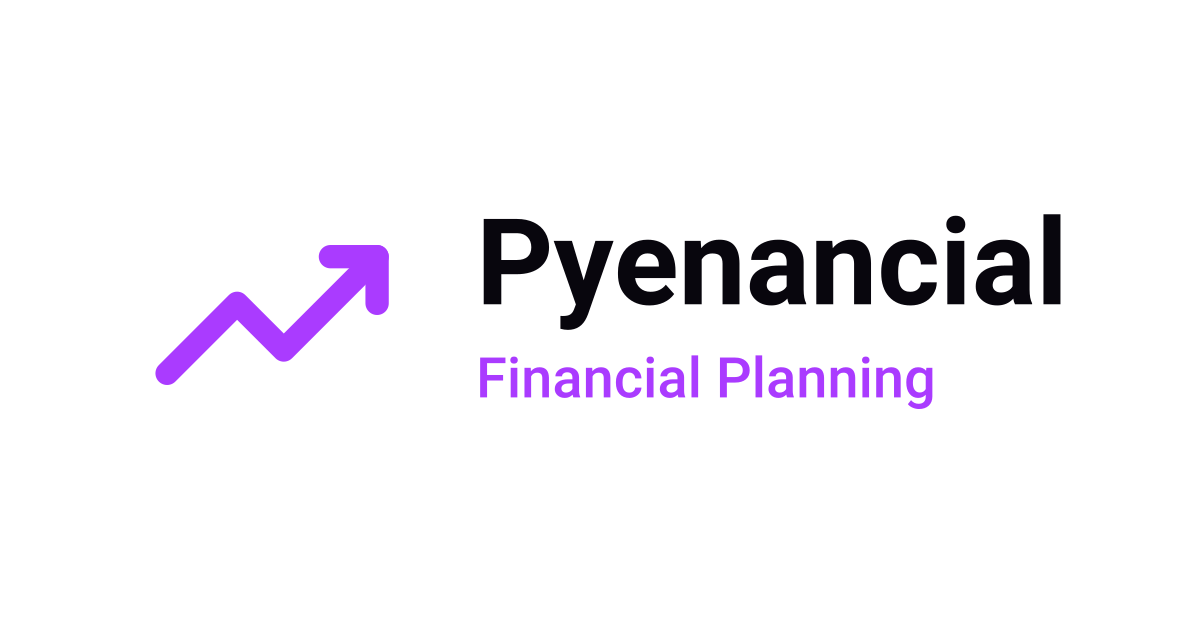
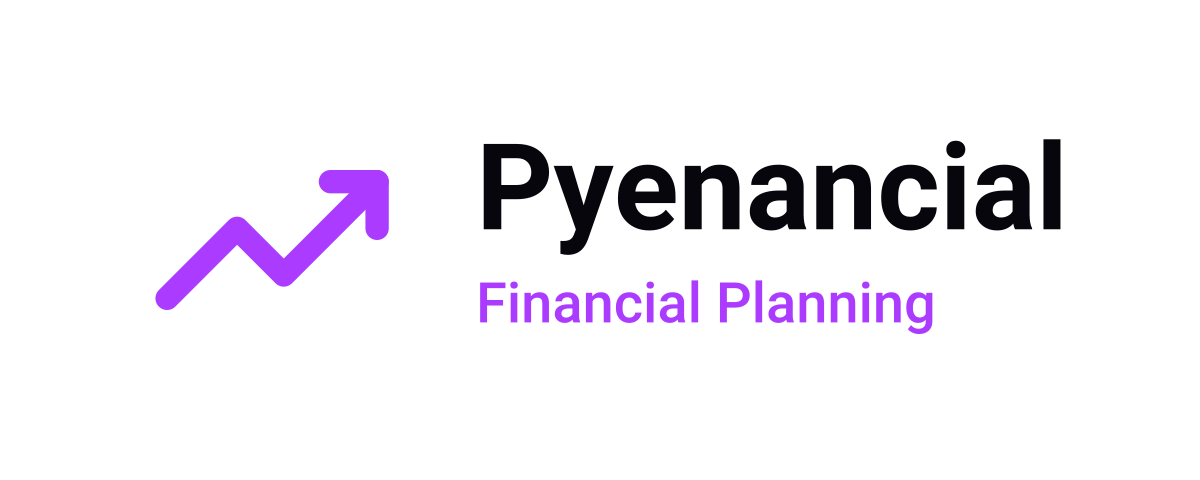
fix: trim vertical whitespace from og-image
Crop the 1200x630 canvas to 1200x480, removing ~75px of empty margin
above and below the logo so it matches the horizontal padding. Also
tightens the same asset when reused as the in-app header logo.

diff --git a/index.html b/index.html
@@ -9,7 +9,7 @@
     <meta property="og:description" content="Welcome to Pyenancial, your personal financial planning assistant." />
     <meta property="og:image" content="https://ajpye-gh.github.io/pyenancial/og-image.png" />
     <meta property="og:image:width" content="1200" />
-    <meta property="og:image:height" content="630" />
+    <meta property="og:image:height" content="480" />
     <meta property="og:url" content="https://ajpye-gh.github.io/pyenancial/" />
     <title>Pyenancial</title>
   </head>
